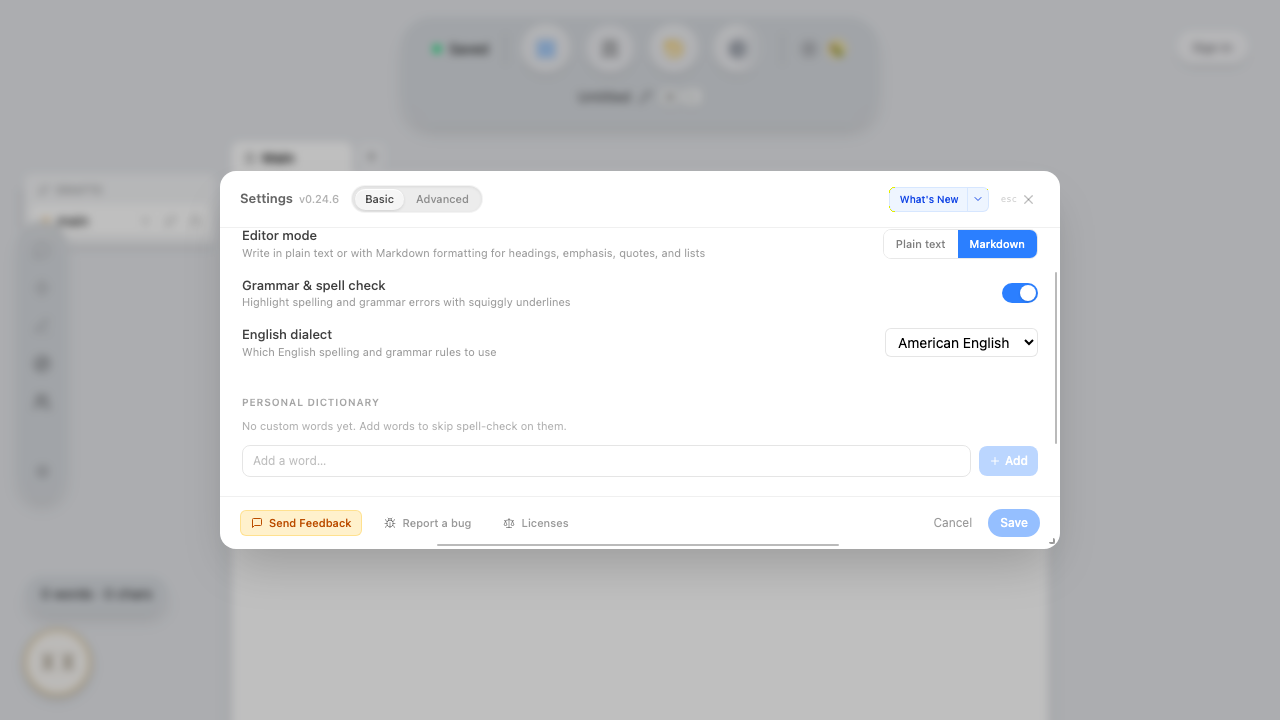
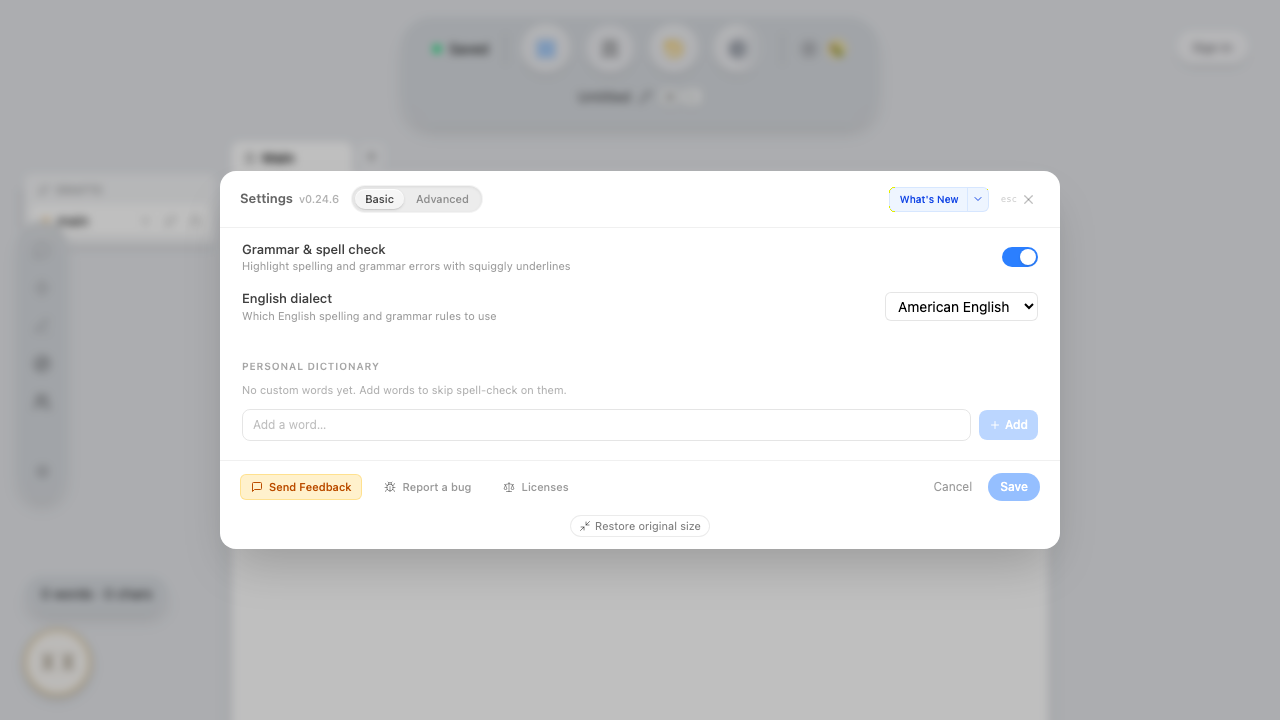
fix(ui): add modal restore button and hide idle resize handles

diff --git a/packages/share/src/modals/ModalResizeHandles.svelte b/packages/share/src/modals/ModalResizeHandles.svelte
@@ -7,21 +7,36 @@ import { onMount } from "svelte";
 import ResizeHandles, { type ResizeHandle } from "../resize/ResizeHandles.svelte";
 import type { PointerDragOptions } from "../resize/pointerDrag";
 
-let { minWidth = 320, minHeight = 280 }: { minWidth?: number; minHeight?: number } = $props();
+let {
+    minWidth = 320,
+    minHeight = 280,
+    contentSelector,
+}: {
+    minWidth?: number;
+    minHeight?: number;
+    /** For two-layer glass shells, reserve the reset footer inside the painted layer. */
+    contentSelector?: string;
+} = $props();
 
 let anchor = $state<HTMLDivElement>();
 let surface: HTMLElement;
+let contentSurface: HTMLElement;
 let resizing = $state(false);
+let isCustomSize = $state(false);
 let originalWidth = "";
 let originalHeight = "";
 let defaultMaxWidth = "";
 let defaultMaxHeight = "";
 let originalTransition = "";
+let originalPaddingBottom = "";
+let paddingBottom = 0;
 
 onMount(() => {
     const parent = anchor?.parentElement;
     if (!parent) return;
     surface = parent;
+    contentSurface =
+        (contentSelector && surface.querySelector<HTMLElement>(contentSelector)) || surface;
     originalWidth = surface.style.width;
     originalHeight = surface.style.height;
     const originalPosition = surface.style.position;
@@ -31,6 +46,8 @@ onMount(() => {
     defaultMaxWidth = `min(${computed.maxWidth === "none" ? "100vw" : computed.maxWidth}, calc(100vw - 32px))`;
     defaultMaxHeight = `min(${computed.maxHeight === "none" ? "100dvh" : computed.maxHeight}, calc(100dvh - 32px))`;
     originalTransition = surface.style.transition;
+    originalPaddingBottom = contentSurface.style.paddingBottom;
+    paddingBottom = Number.parseFloat(getComputedStyle(contentSurface).paddingBottom) || 0;
     if (computed.position === "static") surface.style.position = "relative";
     surface.style.maxWidth = defaultMaxWidth;
     surface.style.maxHeight = defaultMaxHeight;
@@ -39,12 +56,19 @@ onMount(() => {
         surface.style.height = originalHeight;
         surface.style.position = originalPosition;
         surface.style.transition = originalTransition;
+        contentSurface.style.paddingBottom = originalPaddingBottom;
         surface.style.maxWidth = originalMaxWidth;
         surface.style.maxHeight = originalMaxHeight;
     };
 });
 
 function resize(handle: ResizeHandle, width: number, height: number): void {
+    if (!isCustomSize) {
+        // Reserve a footer for Restore without covering content or changing the outer height.
+        surface.style.height = `${surface.getBoundingClientRect().height}px`;
+        contentSurface.style.paddingBottom = `${paddingBottom + 36}px`;
+        isCustomSize = true;
+    }
     if (handle !== "bottom") {
         surface.style.maxWidth = "calc(100vw - 32px)";
         surface.style.width = `${Math.min(window.innerWidth - 32, Math.max(minWidth, width))}px`;
@@ -76,6 +100,8 @@ function dragOptions(handle: ResizeHandle): PointerDragOptions {
 }
 
 function reset(): void {
+    isCustomSize = false;
+    contentSurface.style.paddingBottom = originalPaddingBottom;
     surface.style.maxWidth = defaultMaxWidth;
     surface.style.maxHeight = defaultMaxHeight;
     surface.style.width = originalWidth;
@@ -93,6 +119,7 @@ function resizeBy(handle: ResizeHandle, dx: number, dy: number): void {
     label="modal"
     {dragOptions}
     {resizing}
+    showReset={isCustomSize}
     onResizeBy={resizeBy}
     onReset={reset}
 />

diff --git a/packages/share/src/resize/ResizeHandles.svelte b/packages/share/src/resize/ResizeHandles.svelte
@@ -4,6 +4,7 @@ export type ResizeHandle = "right" | "bottom" | "corner";
 
 <script lang="ts">
 /** ResizeHandles.svelte — Shared edge/corner controls; hosts own sizing and anchoring. */
+import { Minimize2 } from "lucide-svelte";
 import { type PointerDragOptions, pointerDrag } from "./pointerDrag";
 
 let {
@@ -13,6 +14,7 @@ let {
     onResizeBy,
     onReset,
     resizing = false,
+    showReset = false,
 }: {
     element?: HTMLDivElement;
     label: string;
@@ -20,6 +22,7 @@ let {
     onResizeBy: (handle: ResizeHandle, dx: number, dy: number) => void;
     onReset: () => void;
     resizing?: boolean;
+    showReset?: boolean;
 } = $props();
 
 const handles = ["right", "bottom", "corner"] as const;
@@ -52,6 +55,15 @@ function onKeydown(event: KeyboardEvent, handle: ResizeHandle): void {
             ondblclick={onReset}
         ></button>
     {/each}
+    {#if showReset}
+        <button
+            type="button"
+            class="restore-size"
+            aria-label="Restore original size"
+            title="Restore original size"
+            onclick={onReset}
+        ><Minimize2 size={12} /><span>Restore original size</span></button>
+    {/if}
 </div>
 
 <style>
@@ -91,10 +103,29 @@ function onKeydown(event: KeyboardEvent, handle: ResizeHandle): void {
         border-right: 2px solid var(--text, #000);
         border-bottom: 2px solid var(--text, #000);
         background: transparent;
-        opacity: 0.2;
     }
     .handle:hover::after, .handle:focus-visible::after, .resizing .handle::after { opacity: 0.4; }
-    .handle:focus-visible { outline: 2px solid var(--primary, #3b82f6); outline-offset: -2px; }
+    .restore-size {
+        position: absolute;
+        bottom: 12px;
+        left: 50%;
+        transform: translateX(-50%);
+        display: flex;
+        align-items: center;
+        gap: 4px;
+        height: 22px;
+        padding: 0 8px;
+        font-size: 11px;
+        white-space: nowrap;
+        border: 1px solid var(--border, rgba(0, 0, 0, 0.08));
+        border-radius: 999px;
+        background: var(--surface, white);
+        color: var(--text-soft, rgba(0, 0, 0, 0.5));
+        pointer-events: auto;
+        cursor: pointer;
+    }
+    .restore-size:hover { color: var(--text, rgba(0, 0, 0, 0.8)); }
+    .handle:focus-visible, .restore-size:focus-visible { outline: 2px solid var(--primary, #3b82f6); outline-offset: -2px; }
     @media (prefers-reduced-motion: reduce) {
         .handle::after { transition: none; }
     }

diff --git a/packages/desktop/tests/e2e/modalResize.pw.ts b/packages/desktop/tests/e2e/modalResize.pw.ts
@@ -84,7 +84,24 @@ test("settings resize keeps its content scrollable and footer accessible", async
     await q.setup();
     await q.goto();
     const modal = await q.openSettings();
-    await drag(page, modal.getByRole("button", { name: "Resize modal", exact: true }), 100, -70);
+    const initial = (await modal.boundingBox())!;
+    const corner = modal.getByRole("button", { name: "Resize modal", exact: true });
+    const restore = modal.getByRole("button", { name: "Restore original size" });
+    await expect(restore).toHaveCount(0);
+    await page.mouse.move(0, 0);
+    await expect
+        .poll(() => corner.evaluate((el) => getComputedStyle(el, "::after").opacity))
+        .toBe("0");
+    await corner.hover();
+    await expect
+        .poll(() => corner.evaluate((el) => getComputedStyle(el, "::after").opacity))
+        .toBe("0.4");
+    await drag(page, corner, 100, -70);
+    await page.mouse.move(0, 0);
+    await expect
+        .poll(() => corner.evaluate((el) => getComputedStyle(el, "::after").opacity))
+        .toBe("0");
+    await expect(restore).toBeVisible();
     await expect(modal).toBeVisible();
     const body = modal.locator(".settings-shake-wrapper > .overflow-y-auto");
     await body.evaluate((element) => {
@@ -93,6 +110,10 @@ test("settings resize keeps its content scrollable and footer accessible", async
     expect(await body.evaluate((element) => element.scrollTop)).toBeGreaterThan(0);
     await page.screenshot({ path: "/tmp/quillium-settings-resized.png" });
     await expect(modal.getByRole("button", { name: "Save", exact: true })).toBeVisible();
+    await restore.click();
+    await expect(modal).toHaveCSS("width", `${initial.width}px`);
+    expect((await modal.boundingBox())!.height).toBeCloseTo(initial.height, 0);
+    await expect(restore).toHaveCount(0);
 });
 
 test("sidebar shares resize controls without changing its drag distance or outside dismissal", async ({

diff --git a/packages/desktop/src/lib/tutorial/Tutorial.svelte b/packages/desktop/src/lib/tutorial/Tutorial.svelte
@@ -610,7 +610,7 @@ onDestroy(() => {
                     </button>
                 </div>
               </div>
-                <ModalResizeHandles />
+                <ModalResizeHandles contentSelector=":scope > div" />
             </div>
         {:else if step && !useInlineModalGuide}
             <!--

diff --git a/packages/desktop/src/lib/ui/BetaDisclaimer.svelte b/packages/desktop/src/lib/ui/BetaDisclaimer.svelte
@@ -62,6 +62,6 @@ function accept() {
                 </button>
             </div>
         </div>
-        <ModalResizeHandles minHeight={160} />
+        <ModalResizeHandles minHeight={160} contentSelector=":scope > div" />
     </div>
 </div>

diff --git a/BRANDING.md b/BRANDING.md
@@ -312,7 +312,9 @@ Application modals, including export, confirmation, onboarding, and sprint dialo
 use the same right-edge, bottom-edge, and corner resize handles as
 sidebar panels. They stay centered while resizing, leave at least 16px of space
 from the viewport edge, and keep overflowing content scrollable. Arrow keys on a
-focused handle resize the modal; Home or a double-click restores its default size.
+focused handle resize the modal. After resizing, a “Restore original size” button
+appears at the bottom edge; Home or a double-click also restores the default size.
+Handles appear on hover, keyboard focus, or during a drag.
 Custom sizes last until the modal is unmounted. The sidebar and modals share their
 handle component and pointer gesture. Contextual popovers and guided-tour callouts
 keep their existing anchored layout.
